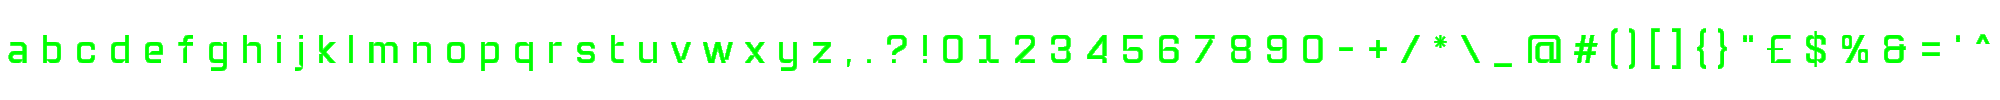
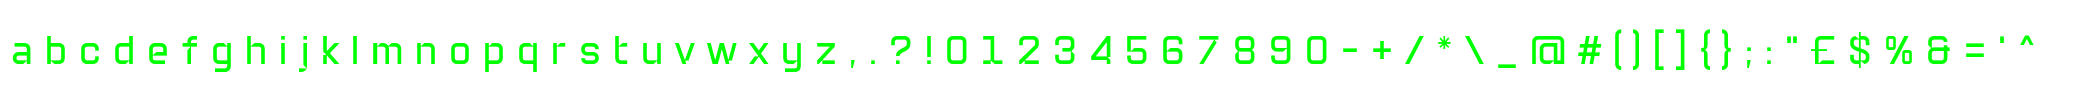
PixelsCollection resize add

Changed region(s): [[0.0, 0.27, 1.0, 0.72]]

diff --git a/tests/integration_test.rs b/tests/integration_test.rs
@@ -7,7 +7,7 @@ use pixel_caster::bgra_management::{SwitchBytes, bytes_matchers};
 fn png_to_char_collection() {
     let image = PixelsCollection::<u8>::from_png("fonts/exports/transparent_green_40px_chars_sample__transparent_background.png").unwrap();
     
-    let transparent_green_chars_transparent_background = image.try_create_char_collection(10, r#"abcdefghijklmnopqrstuvwxyz,.?!01234567890-+/*\_@#()[]{}"£$%&='^"#, 5, bytes_matchers::visible);
+    let transparent_green_chars_transparent_background = image.try_create_char_collection(10, r#"abcdefghijklmnopqrstuvwxyz,.?!01234567890-+/*\_@#()[]{};:"£$%&='^"#, 5, bytes_matchers::visible);
 
     match transparent_green_chars_transparent_background {
         Ok(transparent_green_chars_transparent_background) => {
@@ -34,7 +34,7 @@ fn png_to_char_collection() {
 
     let image = PixelsCollection::<u8>::from_png("fonts/exports/opaque_grey_scale_12px_chars_sample__white_background.png").unwrap();
     
-    let opaque_grey_scale_chars_white_background = image.try_create_char_collection(6, r#"abcdefghijklmnopqrstuvwxyz,.?!01234567890-+/*\_@#()[]{}"£$%&='^"#, 5, bytes_matchers::visible_not_white);
+    let opaque_grey_scale_chars_white_background = image.try_create_char_collection(6, r#"abcdefghijklmnopqrstuvwxyz,.?!01234567890-+/*\_@#()[]{};:"£$%&='^"#, 5, bytes_matchers::visible_not_white);
 
     match opaque_grey_scale_chars_white_background {
         Ok(mut opaque_grey_scale_chars_white_background) => {
@@ -55,7 +55,7 @@ fn png_to_char_collection() {
     let mut image = PixelsCollection::<u8>::from_png("fonts/exports/opaque_grey_scale_12px_chars_sample__white_background.png").unwrap();
     image.bytes = PixelsCollection::white_background_to_transparency_gradient(&image.bytes);
 
-    let transparent_black_chars_transparent_background = image.try_create_char_collection(6, r#"abcdefghijklmnopqrstuvwxyz,.?!01234567890-+/*\_@#()[]{}"£$%&='^"#, 5, bytes_matchers::visible);
+    let transparent_black_chars_transparent_background = image.try_create_char_collection(6, r#"abcdefghijklmnopqrstuvwxyz,.?!01234567890-+/*\_@#()[]{};:"£$%&='^"#, 5, bytes_matchers::visible);
 
     match transparent_black_chars_transparent_background {
         Ok(transparent_black_chars_transparent_background) => {
@@ -71,7 +71,7 @@ fn png_to_char_collection() {
     let mut image = PixelsCollection::<u8>::from_png("fonts/exports/opaque_grey_scale_12px_chars_sample__white_background.png").unwrap();
     PixelsCollection::grey_scale_into_black(&mut image.bytes, 200);
 
-    let threshold_black_chars_transparent_background = image.try_create_char_collection(6, r#"abcdefghijklmnopqrstuvwxyz,.?!01234567890-+/*\_@#()[]{}"£$%&='^"#, 5, bytes_matchers::visible);
+    let threshold_black_chars_transparent_background = image.try_create_char_collection(6, r#"abcdefghijklmnopqrstuvwxyz,.?!01234567890-+/*\_@#()[]{};:"£$%&='^"#, 5, bytes_matchers::visible);
 
     match threshold_black_chars_transparent_background {
         Ok(threshold_black_chars_transparent_background) => {

diff --git a/src/pixels_string.rs b/src/pixels_string.rs
@@ -71,7 +71,7 @@ mod tests {
         let mut range_x = image_transparent_bkgrnd.width;
         let range_y = image_transparent_bkgrnd.height;
         let min_px_space_btwn_chars = 10;
-        let chars_string = r#"abcdefghijklmnopqrstuvwxyz,.?!01234567890-+/*\_@#()[]{}"£$%&='^"#;
+        let chars_string = r#"abcdefghijklmnopqrstuvwxyz,.?!01234567890-+/*\_@#()[]{};:"£$%&='^"#;
         // a b c d e f g h i j k l m n o p q r s t u v w x y z , . ? ! 0 1 2 3 4 5 6 7 8 9 0 - + / * \ _ @ # ( ) [ ] { } " £ $ % & = ' ^
         let space_char_width = 0;
 
@@ -193,19 +193,19 @@ mod tests {
 }
 
 
-struct CardinalPoints {
-    top_y :usize,
-    top_y_index :usize,
-    right_x :usize,
-    right_x_index :usize,
-    left_x :usize,
-    left_x_index :usize,
-    bottom_y :usize,
-    bottom_y_index :usize
+pub struct CardinalPoints {
+    pub top_y :usize,
+    pub top_y_index :usize,
+    pub right_x :usize,
+    pub right_x_index :usize,
+    pub left_x :usize,
+    pub left_x_index :usize,
+    pub bottom_y :usize,
+    pub bottom_y_index :usize
 }
 
 /// returns the cardinal points of given range of which pixels match a condition
-fn get_cardinal_points_until_nonestreak_x (buffer :&Vec<u8>, height :usize, start_x :usize, start_y :usize, range_x :usize, range_y :usize, none_streak_x :usize, bgra_matcher :fn(u8,u8,u8,u8) -> bool) -> CardinalPoints {
+pub fn get_cardinal_points_until_nonestreak_x (buffer :&Vec<u8>, height :usize, start_x :usize, start_y :usize, range_x :usize, range_y :usize, none_streak_x :usize, bgra_matcher :fn(u8,u8,u8,u8) -> bool) -> CardinalPoints {
     
     // how many buffer units there are in a horizontal, 1 pixel high, line across the screen
     let stride = buffer.len() / height;
@@ -253,7 +253,7 @@ fn get_cardinal_points_until_nonestreak_x (buffer :&Vec<u8>, height :usize, star
 
 /// From a starting pixel scans an area of the given range and populates a new Vec<u8> with the given range with pixels that pass the bgra_matcher.
 /// Returns the Vec<u8> and the cardinal points of the most outer pixels that passed the bgra_matcher
-fn pixel_grabber(buffer :&Vec<u8>, height :usize, start_x :usize, start_y :usize, range_x :usize, range_y :usize, bgra_matcher :fn(u8,u8,u8,u8) -> bool) -> (Vec<u8>, CardinalPoints) {
+pub fn pixel_grabber(buffer :&Vec<u8>, height :usize, start_x :usize, start_y :usize, range_x :usize, range_y :usize, bgra_matcher :fn(u8,u8,u8,u8) -> bool) -> (Vec<u8>, CardinalPoints) {
     
     // how many buffer units there are in a horizontal, 1 pixel high, line across the screen
     let stride = buffer.len() / height;
@@ -420,6 +420,11 @@ impl PixelsChar<u8> {
 
 #[derive(Clone,Copy)]
 pub struct BGRA<T: Copy + Clone> (pub T, pub T, pub T, pub T);
+impl<T: Copy + Clone> BGRA<T> {
+    pub fn to_vec(&self) -> Vec<T> {
+        return vec![self.0,self.1,self.2,self.3]
+    }
+}
 
 /// Collection of PixelsChar
 #[derive(Clone)]

diff --git a/examples/text_from_png_chars_sample_to_screen.rs b/examples/text_from_png_chars_sample_to_screen.rs
@@ -5,7 +5,7 @@ fn main () {
 
     let image = PixelsCollection::<u8>::from_png("fonts/exports/transparent_green_40px_chars_sample__transparent_background.png").unwrap();
     
-    let transparent_green_chars_transparent_background = image.try_create_char_collection(10, r#"abcdefghijklmnopqrstuvwxyz,.?!01234567890-+/*\_@#()[]{}"£$%&='^"#, 5, bytes_matchers::visible);
+    let transparent_green_chars_transparent_background = image.try_create_char_collection(10, r#"abcdefghijklmnopqrstuvwxyz,.?!01234567890-+/*\_@#()[]{};:"£$%&='^"#, 5, bytes_matchers::visible);
 
     match transparent_green_chars_transparent_background {
         Ok(transparent_green_chars_transparent_background) => {
@@ -32,7 +32,7 @@ fn main () {
 
     let image = PixelsCollection::<u8>::from_png("fonts/exports/opaque_grey_scale_12px_chars_sample__white_background.png").unwrap();
     
-    let opaque_grey_scale_chars_white_background = image.try_create_char_collection(6, r#"abcdefghijklmnopqrstuvwxyz,.?!01234567890-+/*\_@#()[]{}"£$%&='^"#, 5, bytes_matchers::visible_not_white);
+    let opaque_grey_scale_chars_white_background = image.try_create_char_collection(6, r#"abcdefghijklmnopqrstuvwxyz,.?!01234567890-+/*\_@#()[]{};:"£$%&='^"#, 5, bytes_matchers::visible_not_white);
 
     match opaque_grey_scale_chars_white_background {
         Ok(mut opaque_grey_scale_chars_white_background) => {
@@ -53,7 +53,7 @@ fn main () {
     let mut image = PixelsCollection::<u8>::from_png("fonts/exports/opaque_grey_scale_12px_chars_sample__white_background.png").unwrap();
     image.bytes = PixelsCollection::white_background_to_transparency_gradient(&image.bytes);
 
-    let transparent_black_chars_transparent_background = image.try_create_char_collection(6, r#"abcdefghijklmnopqrstuvwxyz,.?!01234567890-+/*\_@#()[]{}"£$%&='^"#, 5, bytes_matchers::visible);
+    let transparent_black_chars_transparent_background = image.try_create_char_collection(6, r#"abcdefghijklmnopqrstuvwxyz,.?!01234567890-+/*\_@#()[]{};:"£$%&='^"#, 5, bytes_matchers::visible);
 
     match transparent_black_chars_transparent_background {
         Ok(transparent_black_chars_transparent_background) => {
@@ -69,7 +69,7 @@ fn main () {
     let mut image = PixelsCollection::<u8>::from_png("fonts/exports/opaque_grey_scale_12px_chars_sample__white_background.png").unwrap();
     PixelsCollection::grey_scale_into_black(&mut image.bytes, 200);
 
-    let threshold_black_chars_transparent_background = image.try_create_char_collection(6, r#"abcdefghijklmnopqrstuvwxyz,.?!01234567890-+/*\_@#()[]{}"£$%&='^"#, 5, bytes_matchers::visible);
+    let threshold_black_chars_transparent_background = image.try_create_char_collection(6, r#"abcdefghijklmnopqrstuvwxyz,.?!01234567890-+/*\_@#()[]{};:"£$%&='^"#, 5, bytes_matchers::visible);
 
     match threshold_black_chars_transparent_background {
         Ok(threshold_black_chars_transparent_background) => {

diff --git a/src/pixels.rs b/src/pixels.rs
@@ -272,6 +272,46 @@ impl PixelsCollection<u8> {
         }
         return vec_adjusted;
     }
+
+    /// Returns a new PixelsCollection from the provided one, scaling based on the provided ResizeSize (either width or hight)
+    pub fn create_new_resized(&self, resize_size: ResizeSize) -> PixelsCollection<u8> {
+
+        let new_height;
+        let new_width;
+
+        match resize_size {
+            ResizeSize::Width(w) => {
+                new_width = w;
+                new_height = (new_width * self.height) / self.width;
+            },
+            ResizeSize::Height(h) => {
+                new_height = h;
+                new_width = (new_height * self.width) / self.height;
+            }
+        }
+    
+        let x_ratio: f32 = self.width as f32 / new_width as f32;
+        let y_ratio: f32 = self.height as f32 / new_height as f32;
+
+        let mut bytes_resized = Vec::<u8>::with_capacity(new_width * new_height * 4);
+        for fy in 0..new_height {
+            for fx in 0..new_width {
+                let pixel_needed = self.row_length * (fy as f32 * y_ratio) as usize + 4 * (fx as f32 * x_ratio) as usize;
+                bytes_resized.push(self.bytes[pixel_needed]);
+                bytes_resized.push(self.bytes[pixel_needed+1]);
+                bytes_resized.push(self.bytes[pixel_needed+2]);
+                bytes_resized.push(self.bytes[pixel_needed+3]);
+            }
+        }
+
+        return PixelsCollection::create(new_width, new_height, bytes_resized).unwrap();
+    }
+}
+
+/// Measure of either Width or Height
+pub enum ResizeSize {
+    Width(usize),
+    Height(usize)
 }
 
 impl PixelsCollection<u32> {

diff --git a/src/macros.rs b/src/macros.rs
@@ -36,6 +36,7 @@ macro_rules! sub_limited {
         }
     }
 }
+
 // keeps adding units of $add to $val until it reaches $limit or $add has no more units
 #[macro_export]
 macro_rules! add_limited {
@@ -54,7 +55,7 @@ macro_rules! add_limited {
             }
             else {
                 while s > 0 {
-                    if v > $limit {
+                    if v != $limit {
                         v += 1; // add
                         s -= 1;
                     }
